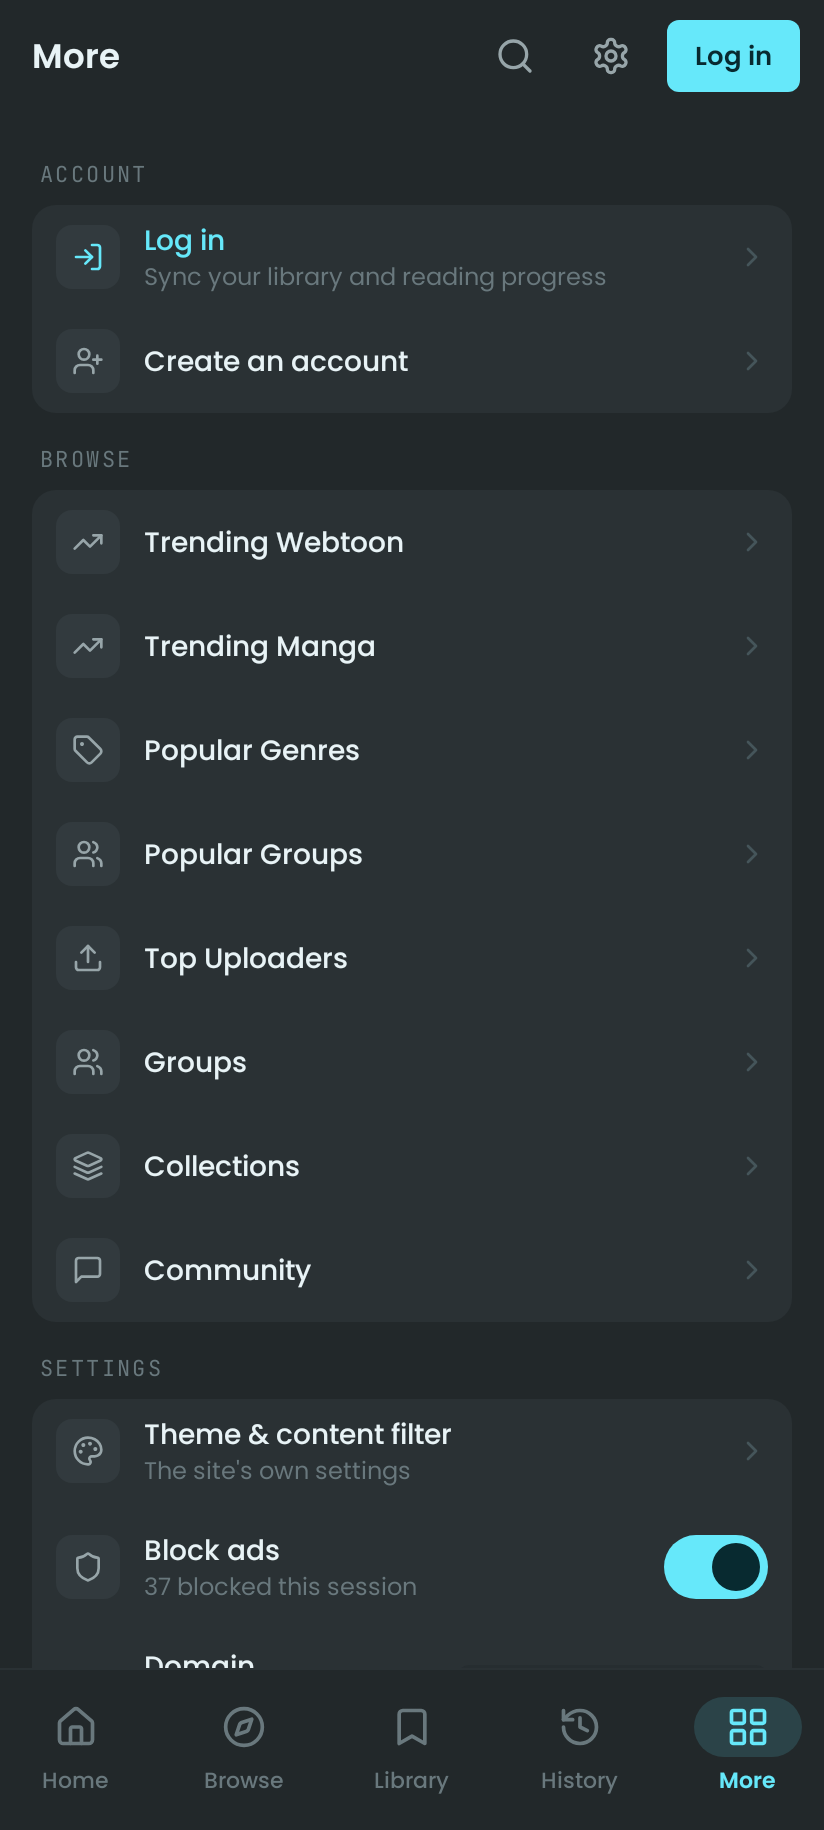
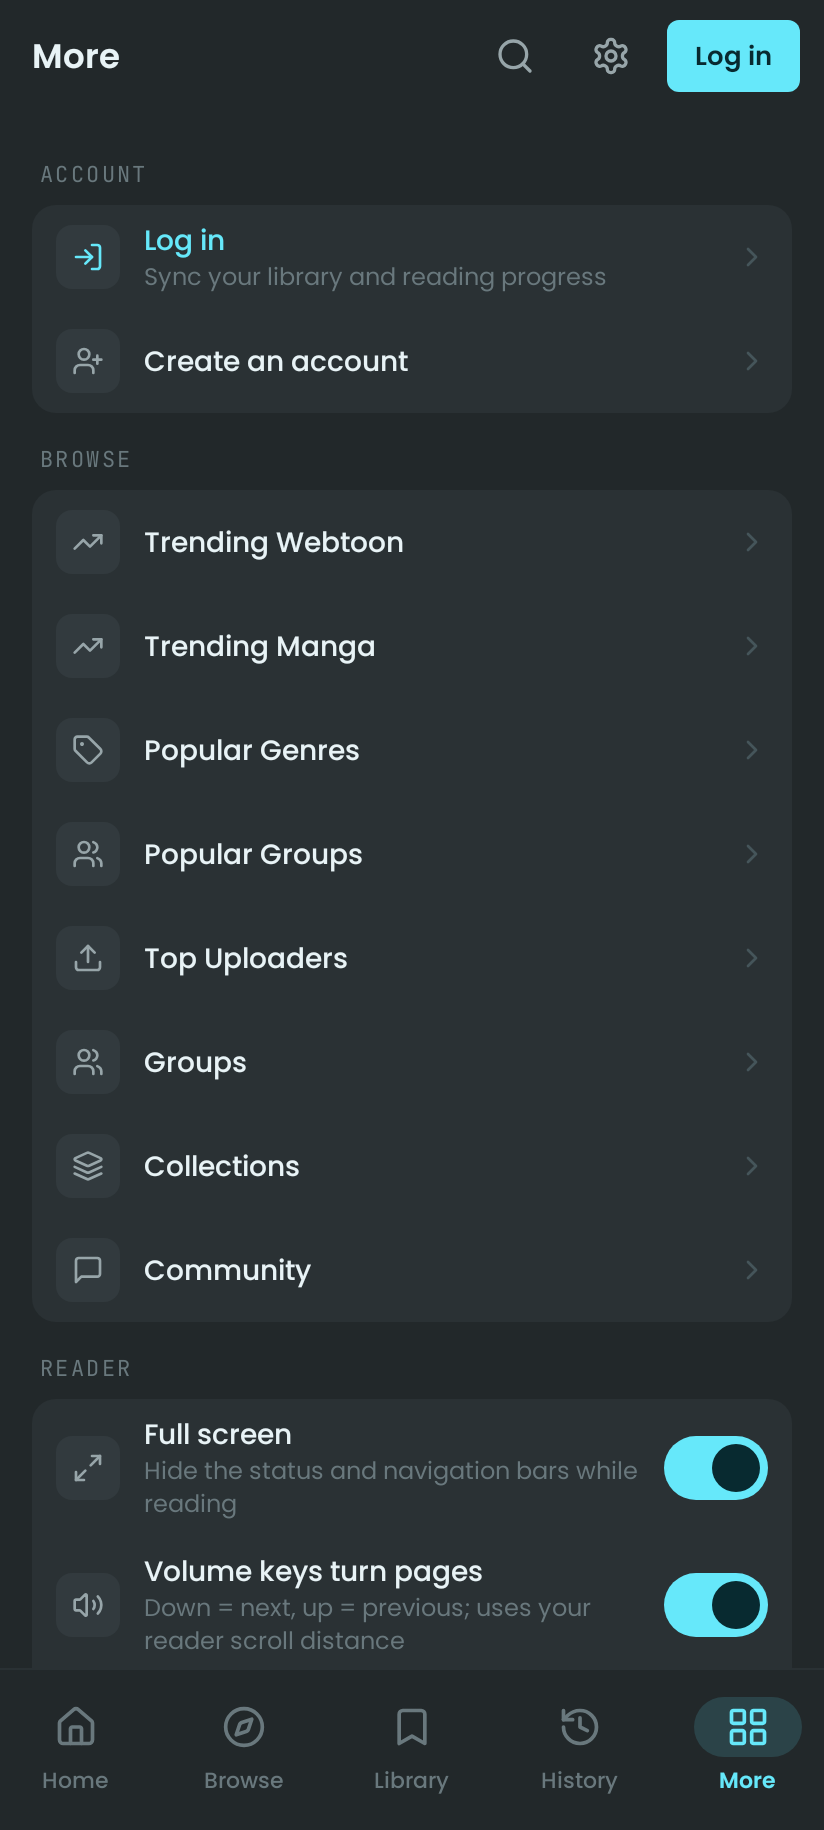
Add reader mode: full screen, keep screen on, volume-key paging (#4)
- On chapter pages the native bars disappear and the system bars hide
  (swipe to peek); the screen stays awake while reading.
- Volume down/up step forward/back by sending the site reader's own
  keyboard shortcuts (ArrowDown/ArrowUp in long-strip mode, s/w in
  paged mode), so the user's scroll distance and reading direction
  apply. Holding a key repeats; the system volume is left alone.
- The site's fullscreen button is hidden since the app already reads
  full screen.
- More gets a Reader section with a toggle for each behaviour.

Claude-Session: https://claude.ai/code/session_01YbVGRshvC6VnHUc4fnRiLA

diff --git a/app/src/main/java/com/notsonata/comixium/ui/ComixiumApp.kt b/app/src/main/java/com/notsonata/comixium/ui/ComixiumApp.kt
@@ -14,7 +14,9 @@ import androidx.compose.foundation.layout.padding
 import androidx.compose.foundation.layout.systemBars
 import androidx.compose.material3.Scaffold
 import androidx.compose.runtime.Composable
+import androidx.compose.runtime.DisposableEffect
 import androidx.compose.runtime.LaunchedEffect
+import androidx.compose.runtime.SideEffect
 import androidx.compose.runtime.getValue
 import androidx.compose.runtime.mutableStateListOf
 import androidx.compose.runtime.mutableStateOf
@@ -22,6 +24,12 @@ import androidx.compose.runtime.saveable.rememberSaveable
 import androidx.compose.runtime.setValue
 import androidx.compose.ui.Modifier
 import androidx.compose.ui.platform.LocalContext
+import androidx.compose.ui.platform.LocalView
+import androidx.core.view.WindowCompat
+import androidx.core.view.WindowInsetsCompat
+import androidx.core.view.WindowInsetsControllerCompat
+import android.app.Activity
+import android.view.WindowManager
 import com.notsonata.comixium.ui.theme.LocalComixColors
 import com.notsonata.comixium.web.AuthState
 import com.notsonata.comixium.web.WebEngine
@@ -56,6 +64,11 @@ fun ComixiumApp(engine: WebEngine) {
         else -> webTab(selected)
     }
     val reader = current?.isReader == true
+    SideEffect { engine.activeTab = current }
+    ReaderWindowEffects(
+        immersive = reader && engine.reader.immersive,
+        keepScreenOn = reader && engine.reader.keepScreenOn,
+    )
 
     // Account pages depend on who is logged in: refresh them when that changes.
     LaunchedEffect(auth) {
@@ -157,6 +170,7 @@ fun ComixiumApp(engine: WebEngine) {
                     onSiteSettings = { siteAction("openSettings") },
                     onAdBlock = engine::updateAdBlock,
                     onDomain = engine::switchDomain,
+                    reader = engine.reader,
                     onClearCache = {
                         engine.clearCache()
                         Toast.makeText(context, "Cache cleared", Toast.LENGTH_SHORT).show()
@@ -196,3 +210,22 @@ private fun listSaver() = androidx.compose.runtime.saveable.listSaver<androidx.c
     save = { list -> list.map { it.name } },
     restore = { names -> mutableStateListOf(*names.mapNotNull { n -> AppTab.entries.firstOrNull { it.name == n } }.toTypedArray()) },
 )
+
+/** Reader pages: hide the status and navigation bars (swipe to peek) and keep the screen awake. */
+@Composable
+private fun ReaderWindowEffects(immersive: Boolean, keepScreenOn: Boolean) {
+    val view = LocalView.current
+    val window = (view.context as? Activity)?.window ?: return
+    DisposableEffect(immersive) {
+        val controller = WindowCompat.getInsetsController(window, view)
+        if (immersive) {
+            controller.systemBarsBehavior = WindowInsetsControllerCompat.BEHAVIOR_SHOW_TRANSIENT_BARS_BY_SWIPE
+            controller.hide(WindowInsetsCompat.Type.systemBars())
+        }
+        onDispose { if (immersive) controller.show(WindowInsetsCompat.Type.systemBars()) }
+    }
+    DisposableEffect(keepScreenOn) {
+        if (keepScreenOn) window.addFlags(WindowManager.LayoutParams.FLAG_KEEP_SCREEN_ON)
+        onDispose { if (keepScreenOn) window.clearFlags(WindowManager.LayoutParams.FLAG_KEEP_SCREEN_ON) }
+    }
+}

diff --git a/app/src/test/java/com/notsonata/comixium/ui/ChromeScreenshotTest.kt b/app/src/test/java/com/notsonata/comixium/ui/ChromeScreenshotTest.kt
@@ -16,6 +16,7 @@ import com.notsonata.comixium.ui.theme.ComixColors
 import com.notsonata.comixium.ui.theme.ComixiumTheme
 import com.notsonata.comixium.ui.theme.withSiteTheme
 import com.notsonata.comixium.web.AuthState
+import com.notsonata.comixium.web.ReaderPrefs
 import com.notsonata.comixium.web.RecentSearches
 import com.notsonata.comixium.web.WebError
 import org.junit.Rule
@@ -37,6 +38,10 @@ class ChromeScreenshotTest {
             "textEmphasis" to "#2b383c", "text" to "#4f656d", "text2" to "#5f747c", "text3" to "#74868d", "text4" to "#a3afb4",
             "accent" to "#1c6fb0", "accent2" to "#045798", "accentInk" to "#ffffff"),
         isLight = true,
+    )
+
+    private fun readerPrefs() = ReaderPrefs(
+        ApplicationProvider.getApplicationContext<Context>().getSharedPreferences("reader", Context.MODE_PRIVATE),
     )
 
     private fun shot(name: String, colors: ComixColors = ComixColors(), content: @Composable () -> Unit) {
@@ -69,7 +74,7 @@ class ChromeScreenshotTest {
         Frame(ComixColors(), {
             ComixTopBar("More", showBack = false, showBrand = false, auth = AuthState.LOGGED_OUT, {}, {}, {}, {}, {}, {})
         }, AppTab.MORE) {
-            MoreScreen(AuthState.LOGGED_OUT, "comix.ws", true, 37, {}, {}, {}, {}, {}, {}, {}, {})
+            MoreScreen(AuthState.LOGGED_OUT, "comix.ws", true, 37, {}, {}, {}, {}, {}, {}, {}, readerPrefs(), {})
         }
     }
 
@@ -77,7 +82,7 @@ class ChromeScreenshotTest {
         Frame(light, {
             ComixTopBar("More", showBack = false, showBrand = false, auth = AuthState.LOGGED_IN, {}, {}, {}, {}, {}, {})
         }, AppTab.MORE) {
-            MoreScreen(AuthState.LOGGED_IN, "comix.to", false, 0, {}, {}, {}, {}, {}, {}, {}, {})
+            MoreScreen(AuthState.LOGGED_IN, "comix.to", false, 0, {}, {}, {}, {}, {}, {}, {}, readerPrefs(), {})
         }
     }
 

diff --git a/app/src/main/java/com/notsonata/comixium/ui/MoreScreen.kt b/app/src/main/java/com/notsonata/comixium/ui/MoreScreen.kt
@@ -37,6 +37,7 @@ import com.notsonata.comixium.ui.icons.Lucide
 import com.notsonata.comixium.ui.theme.LocalComixColors
 import com.notsonata.comixium.ui.theme.Poppins
 import com.notsonata.comixium.web.AuthState
+import com.notsonata.comixium.web.ReaderPrefs
 import com.notsonata.comixium.web.Site
 
 /** Shortcuts from the site's header "Browse" menu, in the same order. */
@@ -64,6 +65,7 @@ fun MoreScreen(
     onSiteSettings: () -> Unit,
     onAdBlock: (Boolean) -> Unit,
     onDomain: (String) -> Unit,
+    reader: ReaderPrefs,
     onClearCache: () -> Unit,
 ) {
     val c = LocalComixColors.current
@@ -85,6 +87,23 @@ fun MoreScreen(
         }
         Section("BROWSE") {
             BROWSE_SHORTCUTS.forEach { (label, icon, path) -> Row(icon, label) { onOpen(path) } }
+        }
+        Section("READER") {
+            ToggleRow(
+                Lucide.Expand, "Full screen",
+                subtitle = "Hide the status and navigation bars while reading",
+                checked = reader.immersive, onChange = reader::updateImmersive,
+            )
+            ToggleRow(
+                Lucide.Volume, "Volume keys turn pages",
+                subtitle = "Down = next, up = previous; uses your reader scroll distance",
+                checked = reader.volumeKeys, onChange = reader::updateVolumeKeys,
+            )
+            ToggleRow(
+                Lucide.Sun, "Keep screen on",
+                subtitle = "While a chapter is open",
+                checked = reader.keepScreenOn, onChange = reader::updateKeepScreenOn,
+            )
         }
         Section("SETTINGS") {
             Row(Lucide.Palette, "Theme & content filter", subtitle = "The site's own settings", onClick = onSiteSettings)

diff --git a/app/src/main/java/com/notsonata/comixium/MainActivity.kt b/app/src/main/java/com/notsonata/comixium/MainActivity.kt
@@ -2,6 +2,7 @@ package com.notsonata.comixium
 
 import android.graphics.Color
 import android.os.Bundle
+import android.view.KeyEvent
 import android.webkit.CookieManager
 import androidx.activity.ComponentActivity
 import androidx.activity.SystemBarStyle
@@ -34,6 +35,24 @@ class MainActivity : ComponentActivity() {
                 ComixiumApp(engine)
             }
         }
+    }
+
+    /** Volume keys step through a chapter (when enabled and a reader page is on screen). */
+    override fun dispatchKeyEvent(event: KeyEvent): Boolean {
+        val code = event.keyCode
+        if (code == KeyEvent.KEYCODE_VOLUME_DOWN || code == KeyEvent.KEYCODE_VOLUME_UP) {
+            val tab = engine.activeTab
+            if (engine.reader.volumeKeys && tab != null && tab.isReader) {
+                // Consume both down and up so the system volume doesn't change; act on presses
+                // and on every few repeats while held.
+                if (event.action == KeyEvent.ACTION_DOWN && event.repeatCount % 3 == 0) {
+                    val dir = if (code == KeyEvent.KEYCODE_VOLUME_DOWN) 1 else -1
+                    tab.js("window.__comixium && window.__comixium.readerStep($dir)")
+                }
+                return true
+            }
+        }
+        return super.dispatchKeyEvent(event)
     }
 
     override fun onResume() {

diff --git a/app/src/main/java/com/notsonata/comixium/web/ReaderPrefs.kt b/app/src/main/java/com/notsonata/comixium/web/ReaderPrefs.kt
@@ -1,0 +1,27 @@
+package com.notsonata.comixium.web
+
+import android.content.SharedPreferences
+import androidx.compose.runtime.getValue
+import androidx.compose.runtime.mutableStateOf
+import androidx.compose.runtime.setValue
+import androidx.core.content.edit
+
+/** App-side reader options (the site's own reader settings stay in the site). */
+class ReaderPrefs(private val prefs: SharedPreferences) {
+    var immersive by mutableStateOf(prefs.getBoolean(KEY_IMMERSIVE, true))
+        private set
+    var volumeKeys by mutableStateOf(prefs.getBoolean(KEY_VOLUME, true))
+        private set
+    var keepScreenOn by mutableStateOf(prefs.getBoolean(KEY_SCREEN_ON, true))
+        private set
+
+    fun updateImmersive(on: Boolean) { immersive = on; prefs.edit { putBoolean(KEY_IMMERSIVE, on) } }
+    fun updateVolumeKeys(on: Boolean) { volumeKeys = on; prefs.edit { putBoolean(KEY_VOLUME, on) } }
+    fun updateKeepScreenOn(on: Boolean) { keepScreenOn = on; prefs.edit { putBoolean(KEY_SCREEN_ON, on) } }
+
+    private companion object {
+        const val KEY_IMMERSIVE = "reader_immersive"
+        const val KEY_VOLUME = "reader_volume_keys"
+        const val KEY_SCREEN_ON = "reader_keep_screen_on"
+    }
+}

diff --git a/app/src/main/assets/inject/comixium.js b/app/src/main/assets/inject/comixium.js
@@ -192,6 +192,20 @@
       document.dispatchEvent(new KeyboardEvent('keydown', { key: 'Escape', code: 'Escape', keyCode: 27, bubbles: true }));
       return d;
     },
+    /*
+     * One step forward (dir=1) or back (dir=-1) in the chapter reader, through the reader's own
+     * keyboard shortcuts so its settings apply: ArrowDown/ArrowUp scroll a long strip by the
+     * user's scroll distance; s/w turn pages in paged mode regardless of reading direction.
+     */
+    readerStep: function (dir) {
+      var r = document.querySelector('.rpage');
+      if (!r) return false;
+      var paged = !r.classList.contains('rpage--long-strip');
+      var key = paged ? (dir > 0 ? 's' : 'w') : (dir > 0 ? 'ArrowDown' : 'ArrowUp');
+      var code = paged ? (dir > 0 ? 'KeyS' : 'KeyW') : key;
+      window.dispatchEvent(new KeyboardEvent('keydown', { key: key, code: code, bubbles: true, cancelable: true }));
+      return true;
+    },
     scrollByPage: function (dir) {
       window.scrollBy({ top: dir * window.innerHeight * 0.85, behavior: 'smooth' });
       return true;

diff --git a/app/src/main/java/com/notsonata/comixium/ui/icons/Lucide.kt b/app/src/main/java/com/notsonata/comixium/ui/icons/Lucide.kt
@@ -155,4 +155,11 @@ object Lucide {
             "M22 8.82a15 15 0 0 0-11.288-3.764", "m2 2 20 20",
         )
     }
+    val Expand by lazy { icon("expand", "M15 3h6v6", "M9 21H3v-6", "M21 3l-7 7", "M3 21l7-7") }
+    val Volume by lazy {
+        icon("volume-2", "M11 4.702a.705.705 0 0 0-1.203-.498L6.413 7.587A1.4 1.4 0 0 1 5.416 8H3a1 1 0 0 0-1 1v6a1 1 0 0 0 1 1h2.416a1.4 1.4 0 0 1 .997.413l3.383 3.384A.705.705 0 0 0 11 19.298z", "M16 9a5 5 0 0 1 0 6", "M19.364 18.364a9 9 0 0 0 0-12.728")
+    }
+    val Sun by lazy {
+        icon("sun", circle(12f, 12f, 4f), "M12 2v2", "M12 20v2", "m4.93 4.93 1.41 1.41", "m17.66 17.66 1.41 1.41", "M2 12h2", "M20 12h2", "m6.34 17.66-1.41 1.41", "m19.07 4.93-1.41 1.41")
+    }
 }

diff --git a/app/src/main/java/com/notsonata/comixium/web/WebEngine.kt b/app/src/main/java/com/notsonata/comixium/web/WebEngine.kt
@@ -42,6 +42,10 @@ class WebEngine(private val app: Application) {
         private set
 
     val recentSearches = RecentSearches(prefs)
+    val reader = ReaderPrefs(prefs)
+
+    /** The tab currently on screen (null on native-only screens); used for hardware keys. */
+    var activeTab: WebTab? = null
 
     private val tabs = linkedMapOf<String, WebTab>()
 

diff --git a/app/src/main/assets/inject/comixium.css b/app/src/main/assets/inject/comixium.css
@@ -52,6 +52,11 @@ a[href*="utm_source=comix"] {
   display: none !important;
 }
 
+/* The app already shows the reader full screen; the site's fullscreen API button would fight it. */
+.rpage-floatctl__btn--fs {
+  display: none !important;
+}
+
 /* No blue tap flash; the site already styles :active states. */
 * {
   -webkit-tap-highlight-color: transparent;

diff --git a/README.md b/README.md
@@ -16,6 +16,7 @@ and built-in ad blocking.
 | Search | Native field with recent searches; results open in the Browse tab (`/browse?q=`). |
 | More | Account pages, the site's Browse menu shortcuts, the site's theme/content settings, ad blocking toggle, domain switch, cache. |
 | Library / History | Show a native log-in prompt when you're logged out (the site redirects those pages). |
+| Reader | Chapter pages go full screen (bars hidden, swipe to peek), keep the screen on, and volume keys step through the chapter using the site reader's own shortcuts, so its scroll distance and reading direction apply. Each is a toggle in More. |
 | Theme | Native colours follow whatever theme you pick in the site's settings (Main, Dark, Light, Custom). |
 
 Screenshots of the native parts (rendered on the JVM by Roborazzi) live in `app/screenshots/`;
